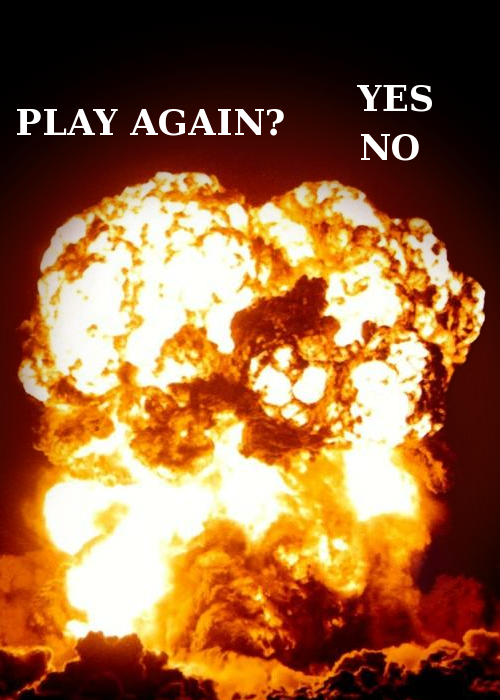
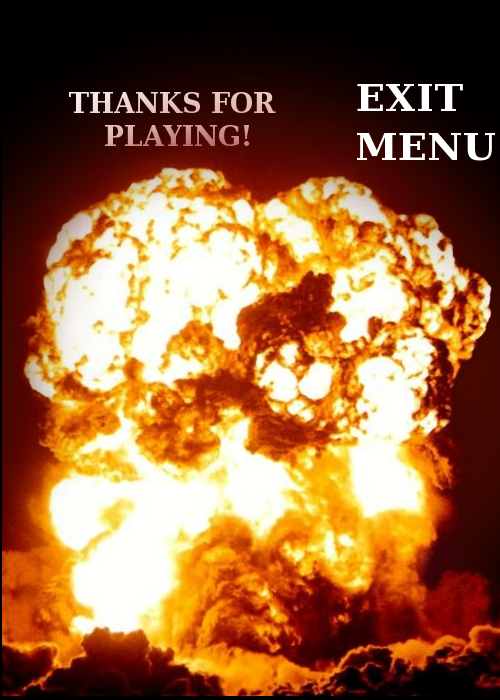
Updated Win screen

diff --git a/GameScreens.py b/GameScreens.py
@@ -63,19 +63,14 @@ class Win_screen(pygame.sprite.Sprite):
 		self.player = player
 		self.image = pygame.image.load(os.getcwd()+"/screens/Win_screen.png")
 		self.rect = self.image.get_rect()
-		self.play_again_button = pygame.Rect(356,84,80,29)
-		self.end_button = pygame.Rect(356,131,61,29)
+		self.exit_button = pygame.Rect(356,82,108,33)
+		self.menu_button = pygame.Rect(356,131,140,33)
 		self.play_again_clicks = 0
 		self.current_state = False		
 	def click(self,click_point):
-		if self.play_again_button.collidepoint(click_point):
-			self.play_again_clicks +=1
-			if self.play_again_clicks == 2:
-				self.player.gs.reset()
-				self.play_again_clicks = 0
-				self.player.state = PLAYING
-				self.current_state = False
-		if self.end_button.collidepoint(click_point):
+		if self.exit_button.collidepoint(click_point):
+			reactor.stop()
+		if self.menu_button.collidepoint(click_point):
 			self.player.gs.reset()
 			self.player.state = TITLE_SCREEN
 			self.current_state = False

diff --git a/GameConstants.py b/GameConstants.py
@@ -7,7 +7,7 @@ PLAYING = 5
 PLAYER_1_DEAD = 6
 PLAYER_2_DEAD = 7
 EXIT_GAME = 8
-SERVER_HOST = 'localhost'
+SERVER_HOST = 'student02.cse.nd.edu'
 SERVER_PORT = 9000
 AUTHENTICATING = 9
 
